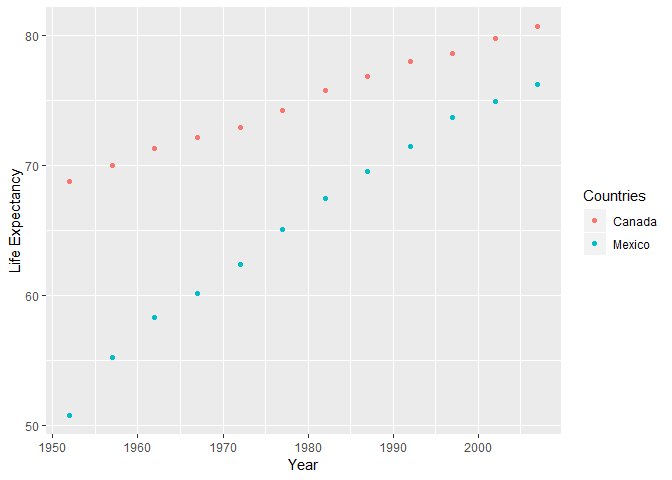
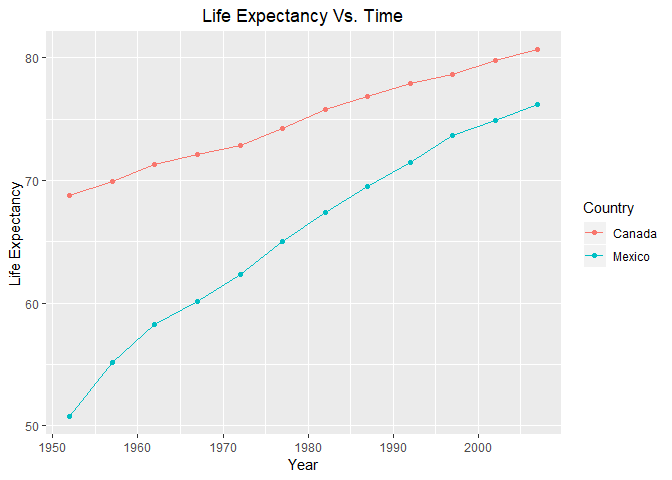
final commit for homework files

diff --git a/hw04-aidanh14.md b/hw04-aidanh14.md
@@ -83,8 +83,13 @@ Now we can compare the life expectancies over time of a couple different countri
 lifeExpUntidy %>%
   ggplot(aes(x = year)) +
   geom_point(aes(y = Canada, color = "Canada")) +
+  geom_line(aes(y = Canada, color = "Canada")) +
   geom_point(aes(y = Mexico, color = "Mexico")) +
-  labs(x = "Year", y = "Life Expectancy", color="Countries")
+  geom_line(aes(y = Mexico, color = "Mexico")) +
+  labs(title = "Life Expectancy Vs. Time", x = "Year", y = "Life Expectancy", color="Country") +
+  
+  # Center the title, left-aligned by default
+  theme(plot.title = element_text(hjust = 0.5))
 ```
 
 ![](hw04-aidanh14_files/figure-markdown_github/lifeExp%20scatterplot-1.png)
@@ -92,4 +97,195 @@ lifeExpUntidy %>%
 Task 2: *"Create a second data frame, complementary to Gapminder. Join this with (part of) Gapminder using a dplyr join function and make some observations about the process and result. Explore the different types of joins."*
 =================================================================================================================================================================================================================================
 
-For the sake of convenience, let's reuse the smaller tibble of random countries that we made in the last task. We can create a second data frame containing the capital city of each country.
+Let's create a tibble from Gapminder of all countries and the continent they're in, then create a second data frame containing only the capital city of some random countries.
+
+``` r
+countries <- gapminder %>%
+  distinct(country, .keep_all = TRUE) %>%
+  select(country, continent)
+
+countries %>%
+  head(15) %>%
+  knitr::kable()
+```
+
+| country                | continent |
+|:-----------------------|:----------|
+| Afghanistan            | Asia      |
+| Albania                | Europe    |
+| Algeria                | Africa    |
+| Angola                 | Africa    |
+| Argentina              | Americas  |
+| Australia              | Oceania   |
+| Austria                | Europe    |
+| Bahrain                | Asia      |
+| Bangladesh             | Asia      |
+| Belgium                | Europe    |
+| Benin                  | Africa    |
+| Bolivia                | Americas  |
+| Bosnia and Herzegovina | Europe    |
+| Botswana               | Africa    |
+| Brazil                 | Americas  |
+
+``` r
+capitals <- countries %>%
+  select(country) %>%
+  filter(country %in% c("Argentina", "Canada", "Germany", "Japan", "Mexico", "Spain")) %>%
+  cbind("capital" = c("Buenos Aires", "Ottawa", "Berlin", "Tokyo", "Mexico City", "Madrid"))
+
+capitals %>%
+  knitr::kable()
+```
+
+| country   | capital      |
+|:----------|:-------------|
+| Argentina | Buenos Aires |
+| Canada    | Ottawa       |
+| Germany   | Berlin       |
+| Japan     | Tokyo        |
+| Mexico    | Mexico City  |
+| Spain     | Madrid       |
+
+Now let's try using the different join functions on our two datasets and compare the results.
+
+Inner-join
+----------
+
+Using inner-join, the countries that had capitals now also have been joined with their continents.
+
+``` r
+inner_join(x = countries, y = capitals) %>%
+  knitr::kable()
+```
+
+    ## Joining, by = "country"
+
+| country   | continent | capital      |
+|:----------|:----------|:-------------|
+| Argentina | Americas  | Buenos Aires |
+| Canada    | Americas  | Ottawa       |
+| Germany   | Europe    | Berlin       |
+| Japan     | Asia      | Tokyo        |
+| Mexico    | Americas  | Mexico City  |
+| Spain     | Europe    | Madrid       |
+
+Semi-join
+---------
+
+Using semi-join, we're left with only the countries that have capitals but don't actually join their values for `capital`.
+
+``` r
+semi_join(x = countries, y = capitals) %>%
+  knitr::kable()
+```
+
+    ## Joining, by = "country"
+
+| country   | continent |
+|:----------|:----------|
+| Argentina | Americas  |
+| Canada    | Americas  |
+| Germany   | Europe    |
+| Japan     | Asia      |
+| Mexico    | Americas  |
+| Spain     | Europe    |
+
+Left-join
+---------
+
+Using left-join, all countries with continents are kept and are joined with their capital if they have one, otherwise capital is NA. We would expect to get the same result in a full-join as well.
+
+``` r
+left_join(x = countries, y = capitals) %>%
+  head(15) %>%
+  knitr::kable()
+```
+
+    ## Joining, by = "country"
+
+| country                | continent | capital      |
+|:-----------------------|:----------|:-------------|
+| Afghanistan            | Asia      | NA           |
+| Albania                | Europe    | NA           |
+| Algeria                | Africa    | NA           |
+| Angola                 | Africa    | NA           |
+| Argentina              | Americas  | Buenos Aires |
+| Australia              | Oceania   | NA           |
+| Austria                | Europe    | NA           |
+| Bahrain                | Asia      | NA           |
+| Bangladesh             | Asia      | NA           |
+| Belgium                | Europe    | NA           |
+| Benin                  | Africa    | NA           |
+| Bolivia                | Americas  | NA           |
+| Bosnia and Herzegovina | Europe    | NA           |
+| Botswana               | Africa    | NA           |
+| Brazil                 | Americas  | NA           |
+
+Full-join
+---------
+
+``` r
+full_join(x = countries, y = capitals) %>%
+  head(15) %>%
+  knitr::kable()
+```
+
+    ## Joining, by = "country"
+
+| country                | continent | capital      |
+|:-----------------------|:----------|:-------------|
+| Afghanistan            | Asia      | NA           |
+| Albania                | Europe    | NA           |
+| Algeria                | Africa    | NA           |
+| Angola                 | Africa    | NA           |
+| Argentina              | Americas  | Buenos Aires |
+| Australia              | Oceania   | NA           |
+| Austria                | Europe    | NA           |
+| Bahrain                | Asia      | NA           |
+| Bangladesh             | Asia      | NA           |
+| Belgium                | Europe    | NA           |
+| Benin                  | Africa    | NA           |
+| Bolivia                | Americas  | NA           |
+| Bosnia and Herzegovina | Europe    | NA           |
+| Botswana               | Africa    | NA           |
+| Brazil                 | Americas  | NA           |
+
+Anti-join
+---------
+
+With anti-join, we get very different results depending on which dataset is `x` and which is `y`. If `x = countries`, we get a set of all countries without specified capitals. However, with `x = capitals`, we get no results, as there are no countries with a specified capital but no specified continent.
+
+``` r
+anti_join(x = countries, y = capitals) %>%
+  head(15) %>%
+  knitr::kable()
+```
+
+    ## Joining, by = "country"
+
+| country                | continent |
+|:-----------------------|:----------|
+| Afghanistan            | Asia      |
+| Albania                | Europe    |
+| Algeria                | Africa    |
+| Angola                 | Africa    |
+| Australia              | Oceania   |
+| Austria                | Europe    |
+| Bahrain                | Asia      |
+| Bangladesh             | Asia      |
+| Belgium                | Europe    |
+| Benin                  | Africa    |
+| Bolivia                | Americas  |
+| Bosnia and Herzegovina | Europe    |
+| Botswana               | Africa    |
+| Brazil                 | Americas  |
+| Bulgaria               | Europe    |
+
+``` r
+anti_join(x = capitals, y = countries) %>%
+  nrow()
+```
+
+    ## Joining, by = "country"
+
+    ## [1] 0
